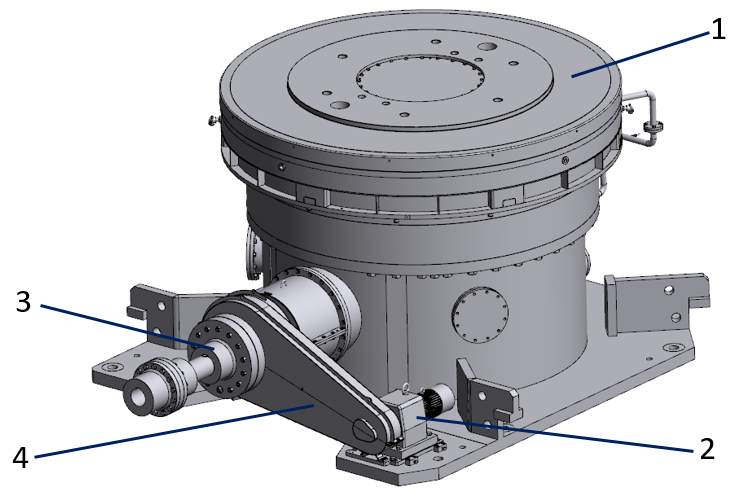
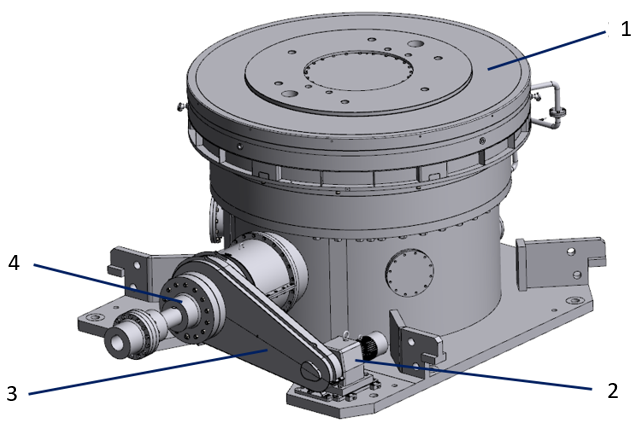
Update

diff --git a/Product description.md b/Product description.md
@@ -28,8 +28,8 @@ nav_order: 5
 **Legend***  
 1. Gearbox
 2. Auxiliary drive
-3. Coupling
-4. Chain and rotating parts cover
+3. Chain and rotating parts cover
+4. Coupling
 
 **Auxiliary drive, chain and rotating parts cover supplied and mounted by customer*
 
@@ -39,16 +39,16 @@ nav_order: 5
 ![Caught up and entangle hazard](/assets/images/Caught_up_and_entangle_hazard_01.png){: style="width: 600px;"}
 &nbsp;
 
-![Caught up and entangle hazard](/assets/images/Fig.3-2_c.png){: style="width: 500px;"}  
+![Caught up and entangle hazard](/assets/images/Fig.3-2_Structure_of_auxiliary_drive.png){: style="width: 500px;"}  
 *Fig. 3-2 Structure of auxiliary drive*
 
 **Legend***
-1. Split sprocket wheel
-2. Chain
-3. Chain and rotating parts cover
-4. Electric motor
-5. Auxiliary drive gearbox
-6. Driving sprocket wheel
+1. Electric motor
+2. Auxiliary drive gearbox
+3. Driving sprocket wheel
+4. Chain
+5. Split sprocket wheel
+6. Chain and rotating parts cover
 
 **Pos. 1-6 supplied and mounted by customer*
 
@@ -80,6 +80,6 @@ Split sprocket wheel gives the possibility to operate drive transmission without
 
 **Split sprocket wheel and screws supplied and mounted by customer*
 
-Split sprocket wheel (1) is mounted on coupling hub (2) by screws (3).
+Split sprocket wheel (1) is mounted on coupling hub (4) by screws (3).
 
 ![Meaning of the symbols](/assets/images/Notice_1.png){: style="width: 600px;"}

diff --git a/Introduction.md b/Introduction.md
@@ -97,7 +97,7 @@ Except for the general safety precautions, the warnings in these instructions al
 ### Meaning of the symbols
 The following symbols are used in these instructions:
 
-  ![Meaning of the symbols](/assets/images/Meaning_of_the_symbols.png) 
+![Meaning of the symbols](/assets/images/Meaning_of_the_symbols.png) 
 
 ### Meaning of the signal words
 A signal word always follows the danger symbol.  
